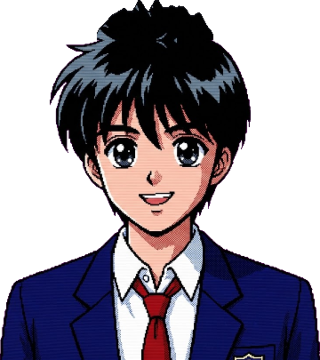
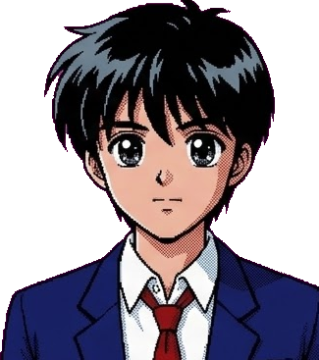
feat(giorno): studentessa e studente come personaggi separati
La studentessa non è più una scena composta: si sovrappone agli sfondi
di scuola e biblioteca come gli altri. Nuovo studente con la bocca animata.

diff --git a/src/lib/game/sceneArt.ts b/src/lib/game/sceneArt.ts
@@ -1,16 +1,9 @@
 // Grafica delle scene di «Un giorno in Giappone» (disegni originali generati
 // con IA, file in static/giorno): personaggi ritagliati in due versioni
-// allineate (bocca chiusa / mentre parla) da sovrapporre allo sfondo del luogo;
-// alcune scene sono già composte (personaggio + sfondo nello stesso disegno).
+// allineate (bocca chiusa / mentre parla) da sovrapporre allo sfondo del luogo.
 import type { PlaceId } from './giorno';
 
 type Where = PlaceId | 'eki';
-
-// scene composte: valgono per chi parla del genere indicato
-const COMPOSED: { id: string; who: 'F' | 'M'; places: Where[] }[] = [
-	{ id: 'studentessa-aula', who: 'F', places: ['gakkou'] },
-	{ id: 'studentessa-biblio', who: 'F', places: ['toshokan', 'honya'] }
-];
 
 // chi si incontra in ogni luogo quando parla «il luogo» (personale, clienti)
 const CAST: Partial<Record<Where, { F: string[]; M: string[] }>> = {
@@ -25,9 +18,9 @@ const CAST: Partial<Record<Where, { F: string[]; M: string[] }>> = {
 	kafe: { F: ['amica'], M: ['cameriere'] },
 	byouin: { F: ['medico'], M: ['passante'] },
 	kusuri: { F: ['medico'], M: ['passante'] },
-	gakkou: { F: ['amica'], M: ['insegnante'] },
-	toshokan: { F: ['amica'], M: ['studente_uomo'] },
-	honya: { F: ['amica'], M: ['studente_uomo'] }
+	gakkou: { F: ['studentessa'], M: ['insegnante'] },
+	toshokan: { F: ['studentessa'], M: ['studente_uomo'] },
+	honya: { F: ['studentessa'], M: ['studente_uomo'] }
 };
 const STREET = { F: ['amica', 'signora_anziana'], M: ['passante'] };
 
@@ -40,7 +33,6 @@ const BG: Partial<Record<Where, string>> = {
 const STREET_BG = 'strada';
 
 export interface SceneLook {
-	composed: string | null; // scena già composta
 	bg: string | null; // sfondo disegnato (altrimenti quello in codice)
 	sprite: string | null; // personaggio da sovrapporre
 }
@@ -57,12 +49,12 @@ const ROLE: Record<Exclude<Role, 'luogo'>, { F: string; M: string }> = {
 };
 
 export function sceneLook(place: Where, who: 'F' | 'M', role: Role = 'luogo'): SceneLook {
-	const comp = role === 'luogo' || role === 'amico' ? COMPOSED.find((c) => c.who === who && c.places.includes(place)) : undefined;
-	if (comp) return { composed: comp.id, bg: null, sprite: null };
-	const sprite = role === 'luogo' ? (CAST[place] ?? STREET)[who][0]! : ROLE[role][who];
-	return { composed: null, bg: role === 'passante' ? STREET_BG : (BG[place] ?? null), sprite };
+	// tra scuola e libri l'amica è la studentessa
+	const sprite =
+		role === 'luogo' || (role === 'amico' && who === 'F' && SCHOOL.includes(place)) ? (CAST[place] ?? STREET)[who][0]! : ROLE[role][who];
+	return { bg: role === 'passante' ? STREET_BG : (BG[place] ?? null), sprite };
 }
+const SCHOOL: Where[] = ['gakkou', 'toshokan', 'honya'];
 
-export const composedSrc = (base: string, id: string, talking: boolean) => `${base}/giorno/scene/${id}-${talking ? 'parla' : 'chiusa'}.png`;
 export const spriteSrc = (base: string, id: string, talking: boolean) => `${base}/giorno/ritratti/${id}-${talking ? 'parla' : 'chiusa'}.png`;
 export const bgSrc = (base: string, id: string) => `${base}/giorno/sfondi/${id}.jpg`;

diff --git a/src/routes/giorno/+page.svelte b/src/routes/giorno/+page.svelte
@@ -13,7 +13,7 @@
 	import { importCourseDataset } from '$lib/db/course-import';
 	import { drawFace, drawTown, lightOf, TILE } from '$lib/game/pixel';
 	import { drawScene, SCENE_H, SCENE_W } from '$lib/game/scene';
-	import { bgSrc, composedSrc, sceneLook, spriteSrc, type Role } from '$lib/game/sceneArt';
+	import { bgSrc, sceneLook, spriteSrc, type Role } from '$lib/game/sceneArt';
 	import { optionHint } from '$lib/game/optionHint';
 	import { ensureWordIndex, type WordHit } from '$lib/core/wordLookup';
 
@@ -576,7 +576,6 @@
 	$effect(() => {
 		if (!look) return;
 		for (const t of [false, true]) {
-			if (look.composed) new Image().src = composedSrc(base, look.composed, t);
 			if (look.sprite) new Image().src = spriteSrc(base, look.sprite, t);
 		}
 	});
@@ -708,16 +707,12 @@
 				</header>
 				{#if lateNote}<p class="late">{lateNote}</p>{/if}
 				<div class="scene-wrap">
-					{#if look?.composed}
-						<img class="scene" src={composedSrc(base, look.composed, mouthOpen)} alt="" />
+					{#if look?.bg}
+						<img class="scene" src={bgSrc(base, look.bg)} alt="" />
 					{:else}
-						{#if look?.bg}
-							<img class="scene" src={bgSrc(base, look.bg)} alt="" />
-						{:else}
-							<canvas class="scene" use:sceneBg={{ place: step?.place ?? 'eki', hour: Math.floor(clock / 60) }} width={SCENE_W} height={SCENE_H}></canvas>
-						{/if}
-						{#if look?.sprite}<img class="sprite" src={spriteSrc(base, look.sprite, mouthOpen)} alt="" />{/if}
+						<canvas class="scene" use:sceneBg={{ place: step?.place ?? 'eki', hour: Math.floor(clock / 60) }} width={SCENE_W} height={SCENE_H}></canvas>
 					{/if}
+					{#if look?.sprite}<img class="sprite" src={spriteSrc(base, look.sprite, mouthOpen)} alt="" />{/if}
 				</div>
 				<div class="dialog">
 					{#if speaking}
